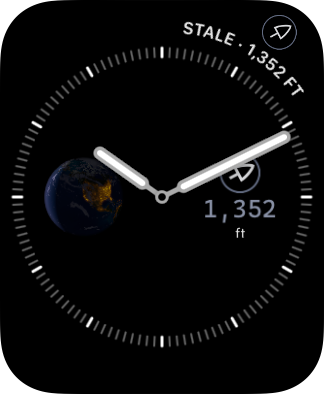
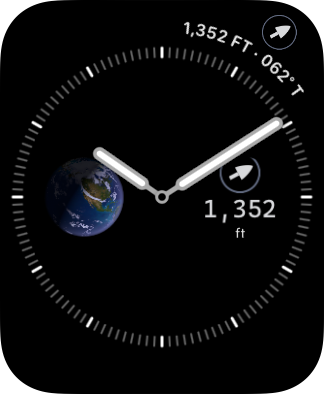
Retake the Ultra faces and the SE's Always On face at 10:09
Both Ultra frames are at 10:09 with a fresh fix (awake: "fix 19sec"), and
the SE's Always On frame shows the Earth subdial on the day side.

face.sh now dims and wakes each watch once before the minute. A face left
up for hours keeps the Earth it drew then, so the SE's awake frame still
showed last night's Earth at 10:09 AM; it is retaken on the next morning.

diff --git a/source/product/samples/apple/README.md b/source/product/samples/apple/README.md
@@ -97,8 +97,10 @@ capture back with text recognition for "…" (`tools/build/kit_clip.py`, `check_
 kept with no mode (`python3 keep.py ios-pad-ax5.png`) and marked `check_only` in `devices.json`: those screens scroll, and a
 still frame of one shows a row running off the edge, so the build reads them for "…" but doesn't publish them or test
 their element frames. `face.sh` waits for the Mac's clock in 24-hour time, so 10:09 in the evening is `AT_TIME=22:09`;
-the published faces are taken at 10:09 AM, when the SE's Earth subdial shows the day side. The complication's fix is fresh
-for 60 s after the watch app is installed, so the script reinstalls it on each watch shortly before that watch's capture.
+the published faces are taken at 10:09 AM, when the SE's Earth subdial shows the day side. A face left up for hours keeps
+the Earth it drew then, so the script first dims and wakes each watch once to redraw it; start it three minutes before.
+The complication's fix is fresh for 60 s after the watch app is installed, so the script reinstalls it on each watch
+shortly before that watch's capture.
 One-time setup by hand through
 `ds` (or Device Hub's window): the widgets on page 2 of the Home Screen (long-press, Edit, Add Widget, FusionSpace, the
 medium size, then the small one), and a face with complication slots on each watch (long-press the face, swipe to New,
